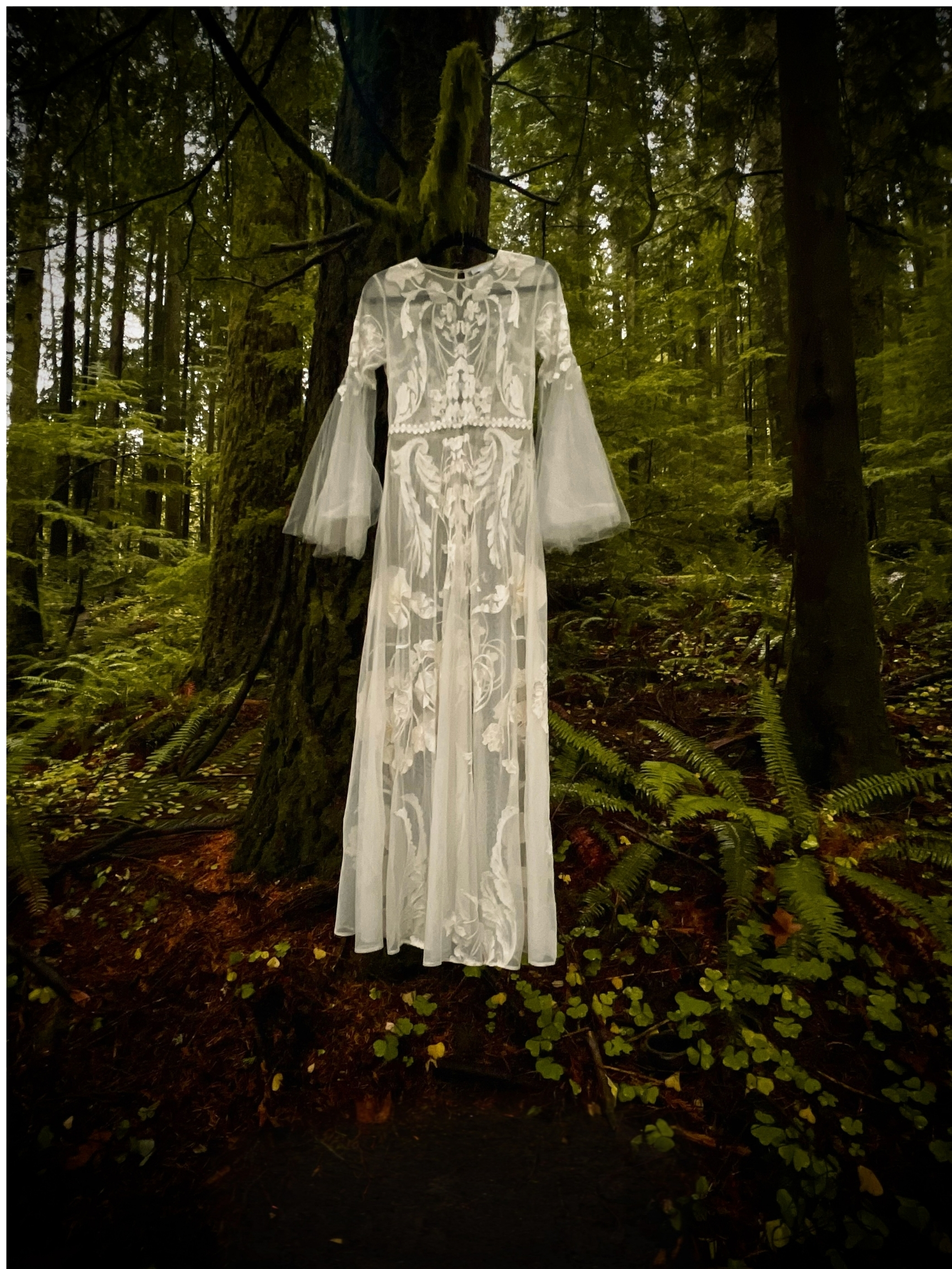
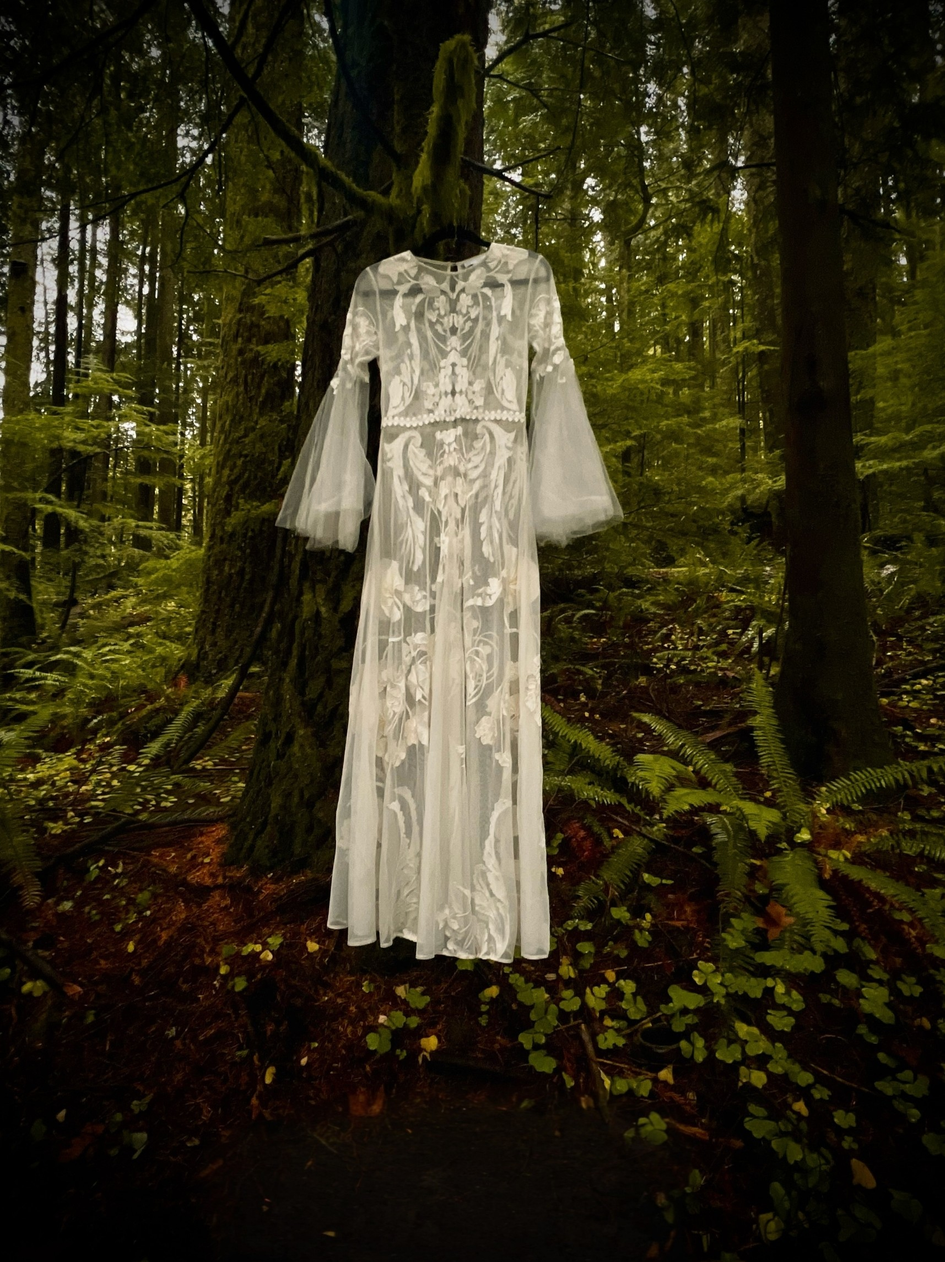
Current: phone layout keeps photographs on screen; Maria images lose white edges
Claude-Session: https://claude.ai/code/session_017CfwZAVzcE1XJqFP6CWfhU

diff --git a/lib/image-sizes.ts b/lib/image-sizes.ts
@@ -157,15 +157,15 @@ export const imageSizes: Record<string, [number, number]> = {
   "/art/maria/03.webp": [1125, 1500],
   "/art/maria/04.webp": [1125, 1500],
   "/art/maria/05.webp": [1500, 844],
-  "/art/maria/maria-index-01.jpg": [1728, 2304],
-  "/art/maria/maria-index-02.jpg": [1440, 2304],
-  "/art/maria/maria-index-03.jpg": [1728, 2304],
-  "/art/maria/maria-index-04.jpg": [1728, 2304],
+  "/art/maria/maria-index-01.jpg": [1715, 2291],
+  "/art/maria/maria-index-02.jpg": [1440, 2297],
+  "/art/maria/maria-index-03.jpg": [1702, 2271],
+  "/art/maria/maria-index-04.jpg": [1715, 2291],
   "/art/maria/maria-index-05.jpg": [1728, 2304],
   "/art/maria/maria-index-06.jpg": [1248, 2304],
-  "/art/maria/maria-index-07.jpg": [1728, 2304],
+  "/art/maria/maria-index-07.jpg": [1702, 2271],
   "/art/maria/maria-index-08.jpg": [1728, 2304],
-  "/art/maria/maria-index-09.jpg": [1728, 2304],
+  "/art/maria/maria-index-09.jpg": [1709, 2304],
   "/art/maria/maria-index-10.jpg": [1632, 2304],
   "/art/maria/maria-index-11.jpg": [1920, 1080],
   "/art/membrane/membrane-01.jpg": [2304, 1296],

diff --git a/app/claude-pass.css b/app/claude-pass.css
@@ -2030,3 +2030,24 @@ html[data-nav-tone="dark"] .ambient-sound-control--global {
     right: .9rem !important;
   }
 }
+
+/* CURRENT (phone) — the photographs no longer step left and right past the
+   screen edge (which widened the page and left a pale strip); they hang
+   centred, and the dark wall covers the whole screen. */
+@media (max-width: 760px) {
+  .current-exhibition {
+    overflow-x: clip;
+    background-attachment: scroll, scroll !important;
+  }
+
+  .current-ember-work,
+  .current-ember-work:nth-child(n),
+  .current-ember-work.is-visible,
+  .current-ember-work:nth-child(n).is-visible {
+    width: 90vw !important;
+    max-width: 90vw !important;
+    margin-left: auto !important;
+    margin-right: auto !important;
+    transform: none !important;
+  }
+}
